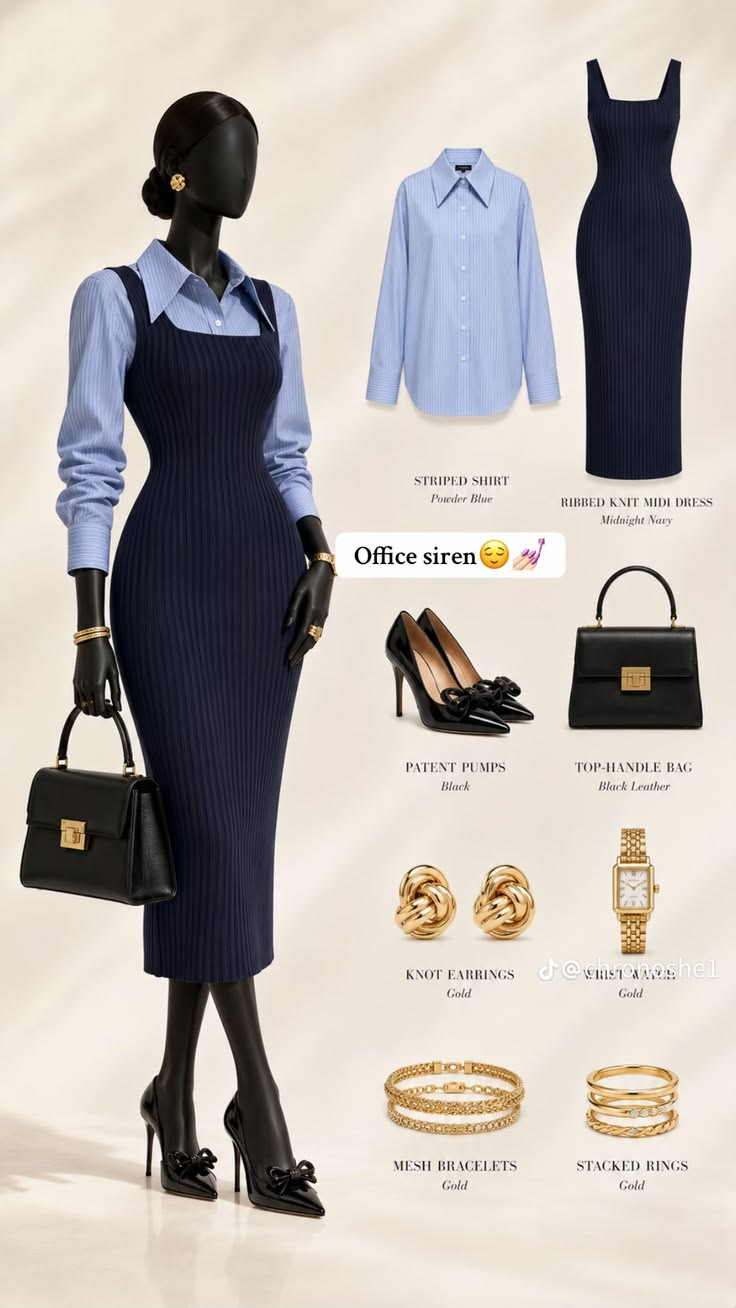
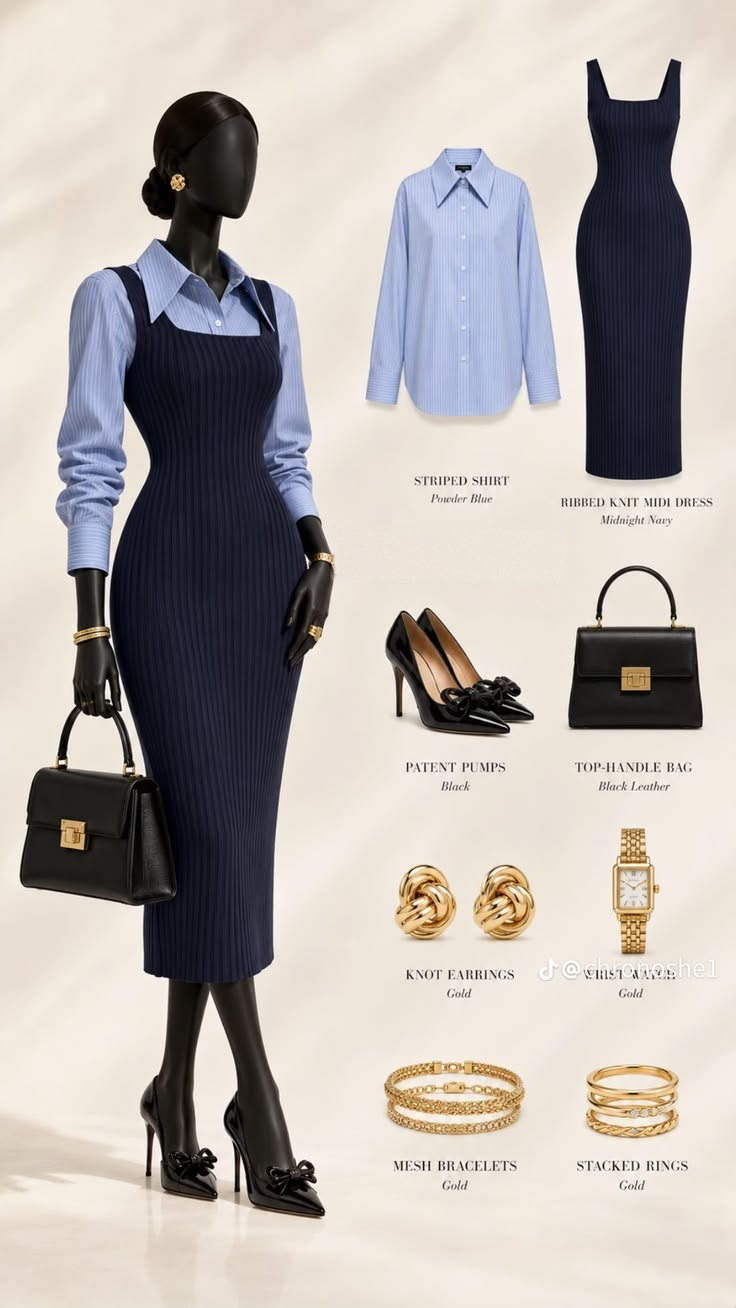
Clear Most wanted, strip lookbook stickers, and pair Lavender Hour with its skirt

Changed region(s): [[0.4375, 0.3976, 0.7812, 0.4587]]

diff --git a/src/lib/data.ts b/src/lib/data.ts
@@ -1785,7 +1785,14 @@ export const ads: Ad[] = [
   },
 ];
 
-export const collections = [
+export const collections: {
+  id: string;
+  name: string;
+  note: string;
+  look: string;
+  lookAlt: string;
+  ids?: string[];
+}[] = [
   {
     id: 'soft-power',
     name: 'The Soft Power Edit',
@@ -1809,6 +1816,7 @@ export const collections = [
     look: '/assets/looks/look-lavender.jpg',
     lookAlt:
       'Lookbook plate: oversized brushed lavender fleece sweatshirt with a butter-yellow leather mini skirt, matching pumps and shoulder bag, gradient sunglasses and gold jewellery.',
+    ids: ['butter-mini-skirt'],
   },
 ];
 

diff --git a/src/pages/Shop.tsx b/src/pages/Shop.tsx
@@ -247,7 +247,9 @@ export function CollectionPage() {
 
   const list = useMemo(() => {
     if (!collection) return [];
-    const base = products.filter((p) => p.collection === collection.name);
+    const base = collection.ids
+      ? products.filter((p) => collection.ids!.includes(p.id))
+      : products.filter((p) => p.collection === collection.name);
     return sortProducts(base, sort);
   }, [collection, sort]);
 

diff --git a/src/pages/Home.tsx b/src/pages/Home.tsx
@@ -34,7 +34,7 @@ export default function Home() {
   });
 
   const newIn = products.filter((p) => p.badge === 'NEW').slice(0, 4);
-  const wanted = products.filter((p) => p.badge === 'BESTSELLER');
+  const wanted: typeof products = [];
 
   return (
     <Screen>
